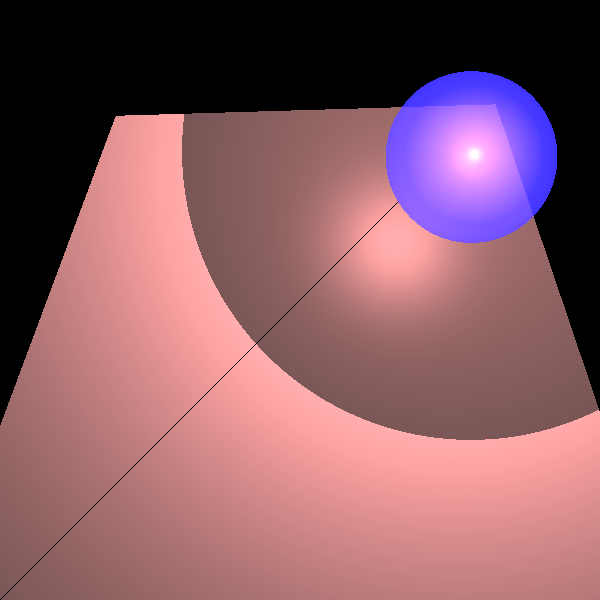
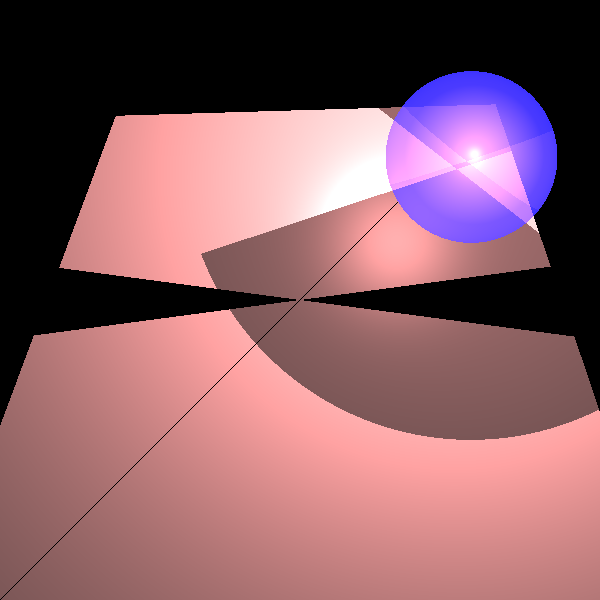
tate

Changed region(s): [[0.3, 0.18, 0.9, 0.42], [0.51, 0.45, 0.96, 0.57], [0.06, 0.45, 0.48, 0.57]]

diff --git a/unittests/renderer/ReflectionRefractionTests.java b/unittests/renderer/ReflectionRefractionTests.java
@@ -24,28 +24,28 @@ public class ReflectionRefractionTests {
    private final Scene          scene         = new Scene("Test scene");
    /** Camera builder for the tests with triangles */
    private final Camera.Builder cameraBuilder = Camera.getBuilder()
-      .setDirection(new Vector(0,0,-1),new Vector(0,1,0))
-      .setRayTracer(new SimpleRayTracer(scene));
+           .setDirection(new Vector(0,0,-1),new Vector(0,1,0))
+           .setRayTracer(new SimpleRayTracer(scene));
 
    /** Produce a picture of a sphere lighted by a spot light */
    @Test
    public void twoSpheres() {
       scene.geometries.add(
-                           new Sphere(50d, new Point(0, 0, -50)).setEmission(new Color(BLUE))
-                              .setMaterial(new Material().setKD(0.4).setKS(0.3).setNShininess(100).setKT(0.3)),
-                           new Sphere(25d, new Point(0, 0, -50)).setEmission(new Color(RED))
-                              .setMaterial(new Material().setKD(0.5).setKS(0.5).setNShininess(100)));
+              new Sphere(50d, new Point(0, 0, -50)).setEmission(new Color(BLUE))
+                      .setMaterial(new Material().setKD(0.4).setKS(0.3).setNShininess(100).setKT(0.3)),
+              new Sphere(25d, new Point(0, 0, -50)).setEmission(new Color(RED))
+                      .setMaterial(new Material().setKD(0.5).setKS(0.5).setNShininess(100)));
       scene.lights.add(
-                       new SpotLight(new Color(1000, 600, 0), new Point(-100, -100, 500), new Vector(-1, -1, -2))
-                          .setKL(0.0004).setKQ(0.0000006));
+              new SpotLight(new Color(1000, 600, 0), new Point(-100, -100, 500), new Vector(-1, -1, -2))
+                      .setKL(0.0004).setKQ(0.0000006));
 
       cameraBuilder.setLocation(new Point(0, 0, 1000)).setVpDistance(1000)
-         .setVpSize(150, 150)
-         .setImageWriter(new ImageWriter("refractionTwoSpheres", 500, 500))
-         .setUseAntiAliasing(true,9)
-         .build()
-         .renderImage()
-         .writeToImage();
+              .setVpSize(150, 150)
+              .setImageWriter(new ImageWriter("refractionTwoSpheres", 500, 500))
+              .setUseAntiAliasing(true,9)
+              .build()
+              .renderImage()
+              .writeToImage();
    }
 
 
@@ -55,29 +55,29 @@ public class ReflectionRefractionTests {
    @Test
    public void twoSpheresOnMirrors() {
       scene.geometries.add(
-                           new Sphere(400d, new Point(-950, -900, -1000)).setEmission(new Color(0, 50, 100))
-                              .setMaterial(new Material().setKD(0.25).setKS(0.25).setNShininess(20)
-                                 .setKT(new Double3(0.5, 0, 0))),
-                           new Sphere( 200d,new Point(-950, -900, -1000)).setEmission(new Color(100, 50, 20))
-                              .setMaterial(new Material().setKD(0.25).setKS(0.25).setNShininess(20)),
-                           new Triangle(new Point(1500, -1500, -1500), new Point(-1500, 1500, -1500),
-                                        new Point(670, 670, 3000))
-                              .setEmission(new Color(20, 20, 20))
-                              .setMaterial(new Material().setKR(1d)),
-                           new Triangle(new Point(1500, -1500, -1500), new Point(-1500, 1500, -1500),
-                                        new Point(-1500, -1500, -2000))
-                              .setEmission(new Color(20, 20, 20))
-                              .setMaterial(new Material().setKR(new Double3(0.5, 0, 0.4))));
+              new Sphere(400d, new Point(-950, -900, -1000)).setEmission(new Color(0, 50, 100))
+                      .setMaterial(new Material().setKD(0.25).setKS(0.25).setNShininess(20)
+                              .setKT(new Double3(0.5, 0, 0))),
+              new Sphere( 200d,new Point(-950, -900, -1000)).setEmission(new Color(100, 50, 20))
+                      .setMaterial(new Material().setKD(0.25).setKS(0.25).setNShininess(20)),
+              new Triangle(new Point(1500, -1500, -1500), new Point(-1500, 1500, -1500),
+                      new Point(670, 670, 3000))
+                      .setEmission(new Color(20, 20, 20))
+                      .setMaterial(new Material().setKR(1d)),
+              new Triangle(new Point(1500, -1500, -1500), new Point(-1500, 1500, -1500),
+                      new Point(-1500, -1500, -2000))
+                      .setEmission(new Color(20, 20, 20))
+                      .setMaterial(new Material().setKR(new Double3(0.5, 0, 0.4))));
       scene.setAmbientLight(new AmbientLight(new Color(255, 255, 255), 0.1));
       scene.lights.add(new SpotLight(new Color(1020, 400, 400), new Point(-750, -750, -150), new Vector(-1, -1, -4))
-         .setKL(0.00001).setKQ(0.000005));
+              .setKL(0.00001).setKQ(0.000005));
 
       cameraBuilder.setLocation(new Point(0, 0, 10000)).setVpDistance(10000)
-         .setVpSize(2500, 2500)
-         .setImageWriter(new ImageWriter("reflectionTwoSpheresMirrored", 500, 500))
-         .build()
-         .renderImage()
-         .writeToImage();
+              .setVpSize(2500, 2500)
+              .setImageWriter(new ImageWriter("reflectionTwoSpheresMirrored", 500, 500))
+              .build()
+              .renderImage()
+              .writeToImage();
    }
 
    /** Produce a picture of a two triangles lighted by a spot light with a
@@ -86,24 +86,24 @@ public class ReflectionRefractionTests {
    @Test
    public void trianglesTransparentSphere() {
       scene.geometries.add(
-                           new Triangle(new Point(-150, -150, -115), new Point(150, -150, -135),
-                                        new Point(75, 75, -150))
-                              .setMaterial(new Material().setKD(0.5).setKS(0.5).setNShininess(60)),
-                           new Triangle(new Point(-150, -150, -115), new Point(-70, 70, -140), new Point(75, 75, -150))
-                              .setMaterial(new Material().setKD(0.5).setKS(0.5).setNShininess(60)),
-                           new Sphere( 30d,new Point(60, 50, -50)).setEmission(new Color(BLUE))
-                              .setMaterial(new Material().setKD(0.2).setKS(0.2).setNShininess(30).setKT(0.6)));
+              new Triangle(new Point(-150, -150, -115), new Point(150, -150, -135),
+                      new Point(75, 75, -150))
+                      .setMaterial(new Material().setKD(0.5).setKS(0.5).setNShininess(60)),
+              new Triangle(new Point(-150, -150, -115), new Point(-70, 70, -140), new Point(75, 75, -150))
+                      .setMaterial(new Material().setKD(0.5).setKS(0.5).setNShininess(60)),
+              new Sphere( 30d,new Point(60, 50, -50)).setEmission(new Color(BLUE))
+                      .setMaterial(new Material().setKD(0.2).setKS(0.2).setNShininess(30).setKT(0.6)));
       scene.setAmbientLight(new AmbientLight(new Color(WHITE), 0.15));
       scene.lights.add(
-                       new SpotLight(new Color(700, 400, 400), new Point(60, 50, 0), new Vector(0, 0, -1))
-                          .setKL(4E-5).setKQ(2E-7));
+              new SpotLight(new Color(700, 400, 400), new Point(60, 50, 0), new Vector(0, 0, -1))
+                      .setKL(4E-5).setKQ(2E-7));
 
       cameraBuilder.setLocation(new Point(0, 0, 1000)).setVpDistance(1000)
-         .setVpSize(200, 200)
-         .setImageWriter(new ImageWriter("refractionShadow", 600, 600))
-         .build()
-         .renderImage()
-         .writeToImage();
+              .setVpSize(200, 200)
+              .setImageWriter(new ImageWriter("refractionShadow", 600, 600))
+              .build()
+              .renderImage()
+              .writeToImage();
    }
 
    @Test
@@ -175,12 +175,12 @@ public class ReflectionRefractionTests {
 
       scene.setAmbientLight(new AmbientLight(new Color(WHITE), 0.15));
       scene.lights.add(
-                 new PointLight(new Color(BLUE),Point.ZERO)
+              new PointLight(new Color(BLUE),Point.ZERO)
                       .setKL(4E-5).setKQ(2E-7));
       scene.lights.add(new SpotLight(new Color(171,0,255),new Point(15,0,10),Point.ZERO.subtract(new Point(15,0,10)))
-                      .setKL(4E-5).setKQ(2E-7));
+              .setKL(4E-5).setKQ(2E-7));
       scene.lights.add(new SpotLight(new Color(171,0,255),new Point(-15,0,10),Point.ZERO.subtract(new Point(-15,0,10)))
-                      .setKL(4E-5).setKQ(2E-7));
+              .setKL(4E-5).setKQ(2E-7));
       Camera.Builder cameraBuilder1 = Camera.getBuilder()
               .setRayTracer(new SimpleRayTracer(scene))
               .setVpSize(900, 900);
@@ -189,10 +189,10 @@ public class ReflectionRefractionTests {
               .setDirection(new Vector(-1,-1,-2),new Vector(-1,-1,1))
               .setVpDistance(965)
               .setImageWriter(new ImageWriter("geometriesImpressiveImage", 500, 500))
-              .setUseAntiAliasing(true,9)
-              .setUseSoftShadows(true,9,1,1)
+              .setUseAntiAliasing(true,4)
+              .setUseSoftShadows(true,6,2,2)
               .setPrintInterval(0.1)
-              .setThreadsCount(5)
+              .setThreadsCount(4)
               .build();
       camera.renderImage();
       camera.writeToImage();

diff --git a/src/scene/Scene.java b/src/scene/Scene.java
@@ -1,17 +1,15 @@
 package scene;
 
 import geometries.Geometries;
-import geometries.Intersectable;
 import lighting.AmbientLight;
 import lighting.LightSource;
 import primitives.Color;
-import primitives.Point;
-
 import java.util.ArrayList;
 import java.util.LinkedList;
 import java.util.List;
 import java.util.Random;
-
+import primitives.Point;
+import geometries.Intersectable;
 /**
  * The class implements a scene.
  * @author Yaniv and Ahuvya.
@@ -27,9 +25,7 @@ public class Scene {
     public Geometries geometries = new Geometries();
     //list for the Light Sources
     public List<LightSource> lights = new LinkedList<>();
-
     public int kSize;
-
     /**
      * setter for the field 'lights'.
      * @param lights represents the getting list to set.
@@ -67,19 +63,17 @@ public class Scene {
         this.ambientLight = ambientLight;
         return this;
     }
-
+    //חלק שלישי מכאן
     public Scene setKMeans(int kSize) {
         // Set the size of k for KMeans clustering
         this.kSize = kSize;
         return this; // Return the Scene object
     }
-
     public static class KMeans {
         public List<List<Integer>> cluster(List<Point> points, int k) {
             List<List<Integer>> clusters = new ArrayList<>();
             // Step 1: Initialize centroids randomly
             List<Point> centroids = initializeCentroids(points, k);
-
             // Iterate until convergence
             boolean converged = false;
             while (!converged) {
@@ -94,7 +88,6 @@ public class Scene {
             }
             return clusters;
         }
-
         private List<Point> initializeCentroids(List<Point> points, int k) {
             // Randomly select k points as initial centroids
             List<Point> centroids = new ArrayList<>();
@@ -105,7 +98,6 @@ public class Scene {
             }
             return centroids;
         }
-
         private List<List<Integer>> assignPointsToCentroids(List<Point> points, List<Point> centroids) {
             // Assign each point to the nearest centroid
             List<List<Integer>> clusters = new ArrayList<>();
@@ -127,7 +119,6 @@ public class Scene {
             }
             return clusters;
         }
-
         private List<Point> updateCentroids(List<Point> points, List<List<Integer>> clusters) {
             // Update centroids based on the mean of the points in each cluster
             List<Point> centroids = new ArrayList<>();
@@ -152,7 +143,6 @@ public class Scene {
             return centroids;
         }
     }
-
     /**
      * Sets the geometries of the scene.
      *
@@ -161,7 +151,6 @@ public class Scene {
      */
     public Scene setGeometries(Geometries geometries) {
         List<Intersectable> objects = geometries.getGeometries();
-
         // Calculate centers of objects
         List<Point> centers = new ArrayList<>();
         for (Intersectable i : objects) {
@@ -169,9 +158,7 @@ public class Scene {
             Point avg = new Point((bvhPoints.get(0).getX() + bvhPoints.get(1).getX() ) / 2, (bvhPoints.get(0).getY()  + bvhPoints.get(1).getY() ) / 2, (bvhPoints.get(0).getZ()  + bvhPoints.get(1).getZ() ) / 2);
             centers.add(avg);
         }
-
         KMeans kMeans = new KMeans();
-        // Perform k-means clustering
         List<List<Integer>> clusters = kMeans.cluster(centers, kSize);
         // Build hierarchy based on clusters
         Geometries hierarchies = new Geometries();
@@ -187,7 +174,6 @@ public class Scene {
             }
         }
         this.geometries = hierarchies;
-
         return this; // Return the Scene object
     }
 

diff --git a/src/geometries/Plane.java b/src/geometries/Plane.java
@@ -78,6 +78,12 @@ public class Plane extends Geometry {
 
     @Override
     public List<Point> findBVHPoints() {
-        return null;
+        double minX = Double.POSITIVE_INFINITY;
+        double minY = Double.POSITIVE_INFINITY;
+        double minZ = Double.POSITIVE_INFINITY;
+        double maxX = Double.NEGATIVE_INFINITY;
+        double maxY = Double.NEGATIVE_INFINITY;
+        double maxZ = Double.NEGATIVE_INFINITY;
+        return List.of(new Point(minX,minY,minZ),new Point(maxX,maxY,maxZ));
     }
 }
